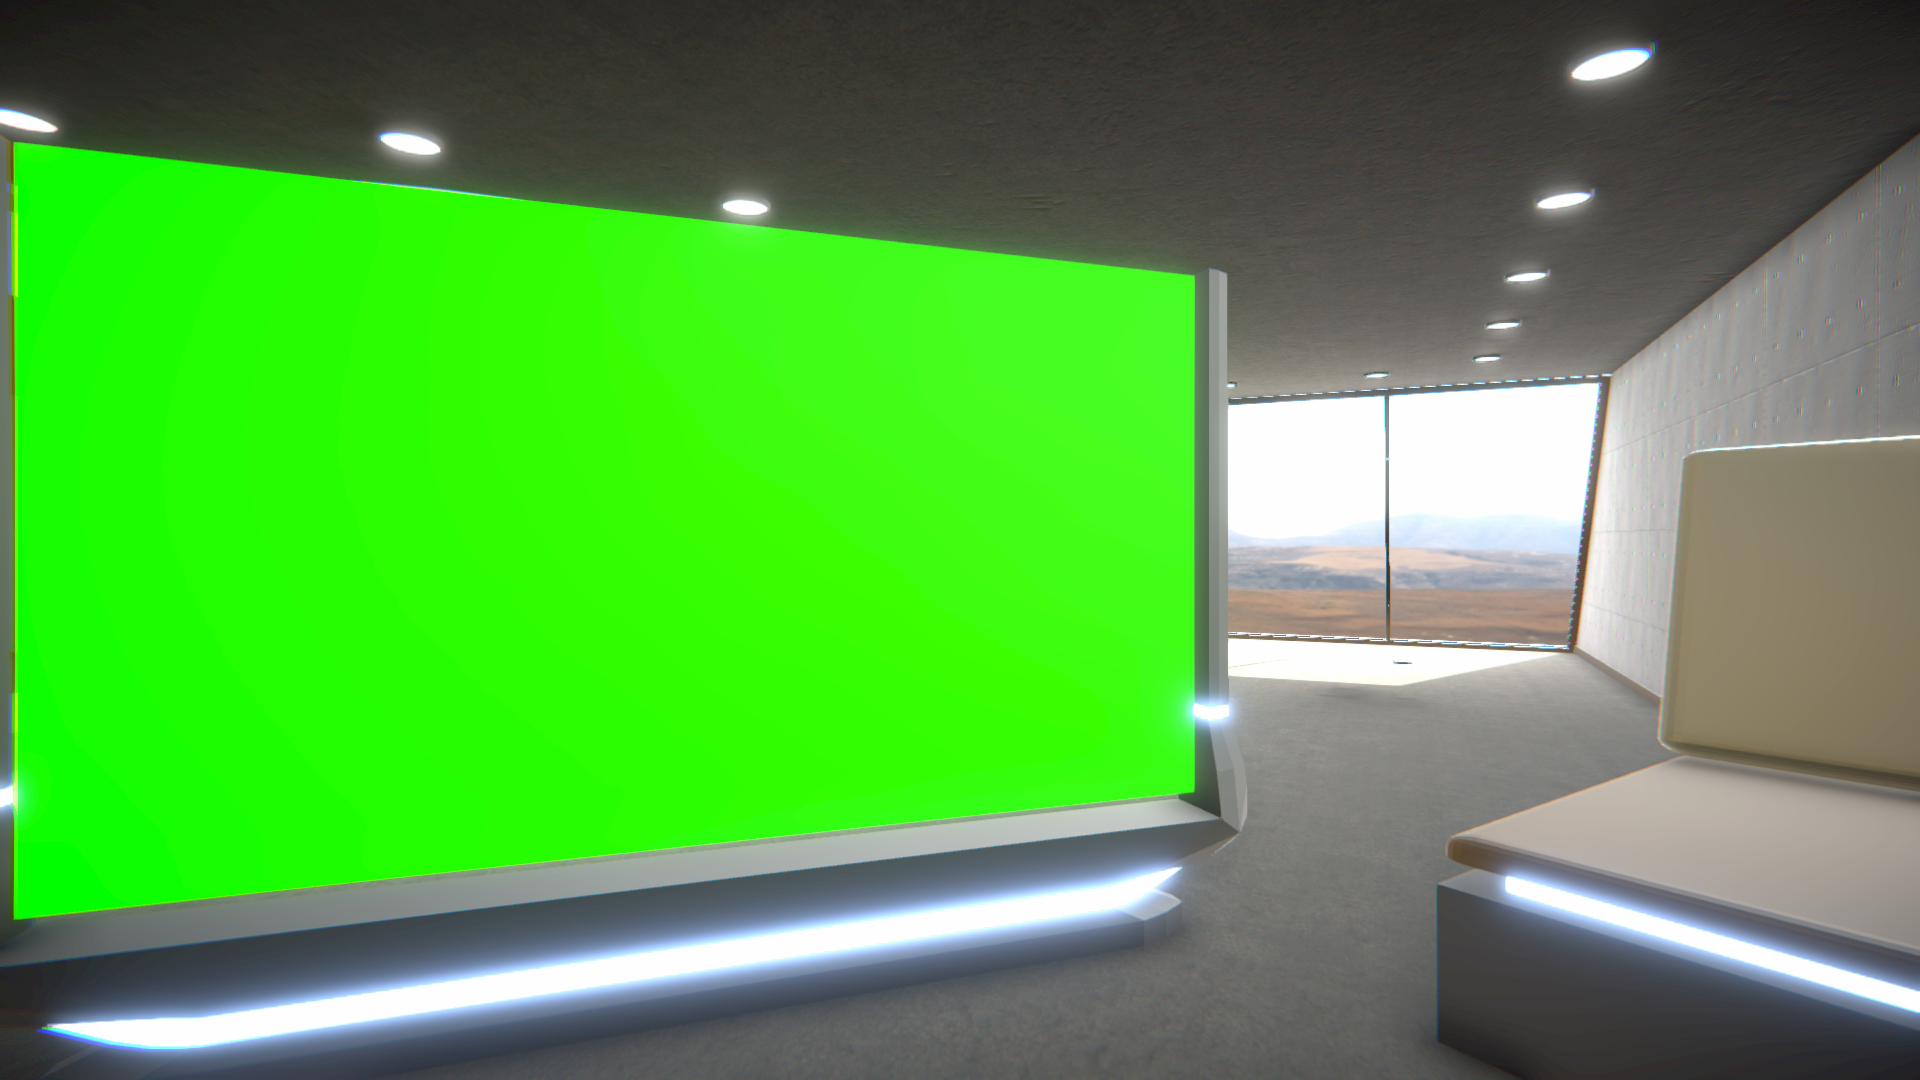
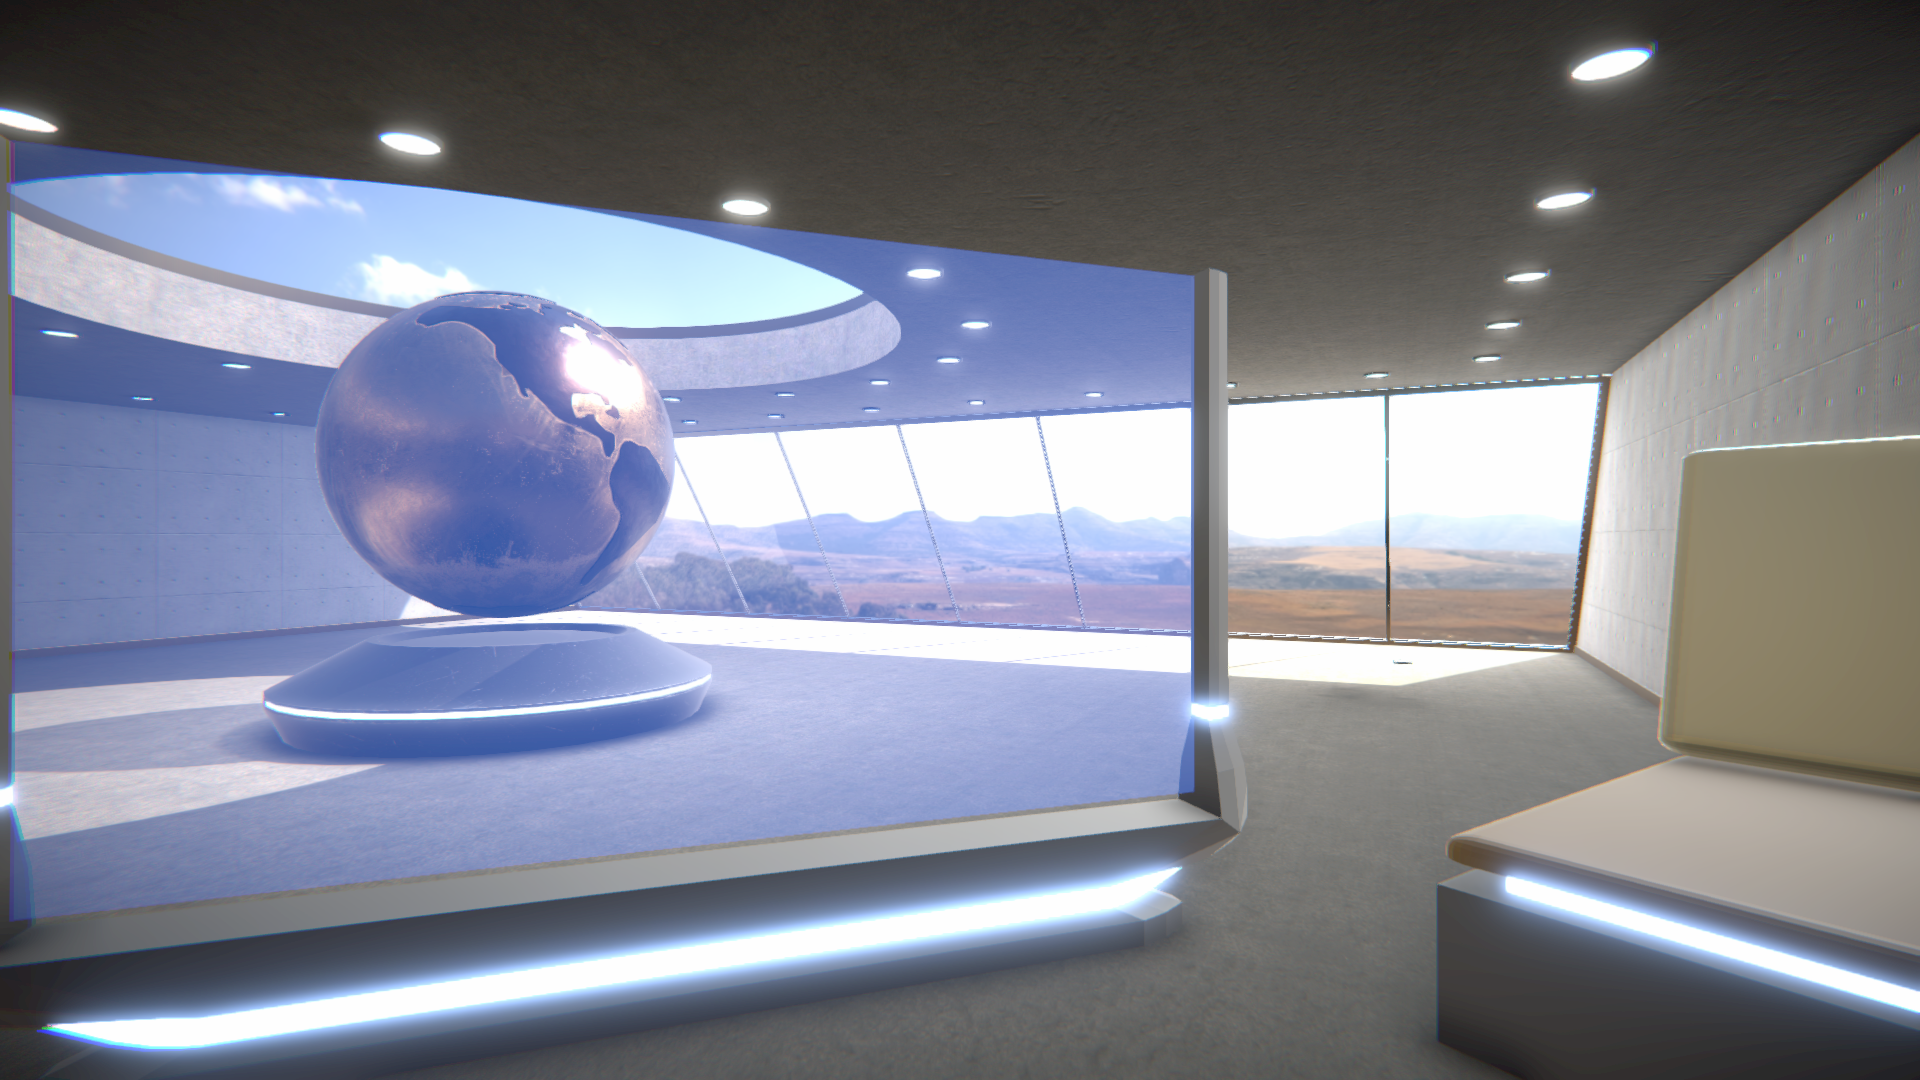
feat(bg): 真实场景渲染图作背景, UI 透视贴入屏幕, 字幕扁平叠加, 角色坐到右下角

diff --git a/OpenMontage/remotion-composer/src/Explainer.tsx b/OpenMontage/remotion-composer/src/Explainer.tsx
@@ -945,32 +945,19 @@ export const Explainer: React.FC<ExplainerProps> = (props) => {
   // Full-frame digital host as the bottom layer, with the UI floating on top.
   const bgAvatar = !!avatar?.enabled && avatar?.layer === "background";
 
-  // The whole page is rendered as "screen content". When a Unity room shot +
-  // green-screen quad are supplied, this content is perspective-warped into the
-  // quad and the room shot is dropped behind it.
+  // When a Unity room shot + screen quad are supplied, the UI page is
+  // perspective-warped into the screen; the host and captions stay as flat
+  // overlays (the host is parked bottom-right, seated in the room).
   const screen = unityBackground;
   const warp = !!(screen?.enabled && screen.image && screen.screenQuad);
 
-  const inner = (
+  // The screen's own backdrop (warped together with the UI).
+  const bgGradient = <AnimatedBackground theme={theme} />;
+
+  // UI content shown ON the screen — scenes + overlays + grade. No host, no
+  // captions, no page backdrop (that is `bgGradient`).
+  const screenContent = (
     <>
-      {/* Layer 0: Animated gradient background — driven by theme. */}
-      <AnimatedBackground theme={theme} />
-
-      {/* Layer 0.5: Full-frame digital host (background mode) — sits above the
-          gradient, below the UI, which renders with transparent scene bgs. */}
-      {bgAvatar && (
-        <VRMAvatar
-          background
-          clipUrl={avatar?.clip}
-          clipSpeed={avatar?.clipSpeed}
-          bgModelX={avatar?.bgModelX}
-          bgModelY={avatar?.bgModelY}
-          bgCameraZ={avatar?.bgCameraZ}
-          bgModelYawDeg={avatar?.bgModelYawDeg}
-          captions={captions}
-        />
-      )}
-
       {/* Layer 1: Visual scenes */}
       {cuts.map((cut) => {
         const from = Math.round(cut.in_seconds * fps);
@@ -1030,18 +1017,35 @@ export const Explainer: React.FC<ExplainerProps> = (props) => {
         }}
       />
 
-      {/* Layer 3: Captions (word-by-word highlight) */}
-      {captions && captions.length > 0 && (
-        <CaptionOverlay
-          words={captions}
-          wordsPerPage={6}
-          fontSize={42}
-          highlightColor={theme.captionHighlightColor}
-          backgroundColor={theme.captionBackgroundColor}
-        />
-      )}
     </>
   );
+
+  // Full-frame digital host (background mode) — flat overlay, NOT warped. Its
+  // on-screen position comes from the avatar's 3D framing (parked bottom-right).
+  const hostEl = bgAvatar ? (
+    <VRMAvatar
+      background
+      clipUrl={avatar?.clip}
+      clipSpeed={avatar?.clipSpeed}
+      bgModelX={avatar?.bgModelX}
+      bgModelY={avatar?.bgModelY}
+      bgCameraZ={avatar?.bgCameraZ}
+      bgModelYawDeg={avatar?.bgModelYawDeg}
+      captions={captions}
+    />
+  ) : null;
+
+  // Captions (word-by-word highlight) — flat overlay, never warped.
+  const captionsEl =
+    captions && captions.length > 0 ? (
+      <CaptionOverlay
+        words={captions}
+        wordsPerPage={6}
+        fontSize={42}
+        highlightColor={theme.captionHighlightColor}
+        backgroundColor={theme.captionBackgroundColor}
+      />
+    ) : null;
 
   const audioEls = (
     <>
@@ -1082,7 +1086,8 @@ export const Explainer: React.FC<ExplainerProps> = (props) => {
     </>
   );
 
-  // Warped path: room shot behind, page perspective-mapped into the green quad.
+  // Warped path: room shot behind, UI perspective-mapped into the screen quad;
+  // host + captions are flat overlays on top.
   if (warp) {
     return (
       <AbsoluteFill style={{ background: "#000", fontFamily: theme.headingFont || fontFamily }}>
@@ -1103,9 +1108,12 @@ export const Explainer: React.FC<ExplainerProps> = (props) => {
           }}
         >
           <AbsoluteFill style={{ background: theme.backgroundColor, overflow: "hidden" }}>
-            {inner}
+            {bgGradient}
+            {screenContent}
           </AbsoluteFill>
         </div>
+        {hostEl}
+        {captionsEl}
         {audioEls}
       </AbsoluteFill>
     );
@@ -1113,7 +1121,10 @@ export const Explainer: React.FC<ExplainerProps> = (props) => {
 
   return (
     <AbsoluteFill style={{ background: theme.backgroundColor, fontFamily: theme.headingFont || fontFamily }}>
-      {inner}
+      {bgGradient}
+      {hostEl}
+      {screenContent}
+      {captionsEl}
       {audioEls}
     </AbsoluteFill>
   );

diff --git a/OpenMontage/build_ep02_shots_props.py b/OpenMontage/build_ep02_shots_props.py
@@ -38,17 +38,17 @@ COMPOSER_DIR = Path(__file__).resolve().parent / "remotion-composer"
 PUBLIC_DIR = COMPOSER_DIR / "public"
 OUTPUT_JSON = PUBLIC_DIR / "demo-props" / "ep02-shots.json"
 
-# Unity room screenshot as the bottom layer; the whole page is perspective-
-# warped into the green-screen quad (corners in 1920x1080 px, detected from the
-# image). Drop the shot into public/UnityBG.png and this turns on automatically.
+# Unity room render as the bottom layer; the UI page is perspective-warped into
+# the in-scene display. Drop the shot into public/UnityBG.png and this turns on
+# automatically. The host + captions are flat overlays (not warped).
 UNITY_BG_IMAGE = "UnityBG.png"
-# Detected inner edge of the green screen, expanded ~6px outward so the warped
-# page over-covers the chroma fringe instead of leaving a green sliver.
+# Screen quad corners (1920x1080 px) the UI page is warped into. Exact edge of
+# the in-scene display (no expansion — the real render has no chroma fringe).
 UNITY_BG_QUAD = {
-    "tl": [4, 136],
-    "tr": [1203, 271],
-    "br": [1203, 795],
-    "bl": [4, 925],
+    "tl": [13, 142],
+    "tr": [1194, 275],
+    "br": [1194, 791],
+    "bl": [13, 919],
 }
 
 FPS = 30
@@ -62,8 +62,8 @@ AVATAR = {
     "layer": "background",
     "clip": "avatars/Sitting.fbx",
     "clipSpeed": 0.6,
-    "bgModelX": 1.30,
-    "bgModelY": -1.30,
+    "bgModelX": 2.10,
+    "bgModelY": -1.35,
     "bgCameraZ": 5.90,
     "bgModelYawDeg": 30,
 }
